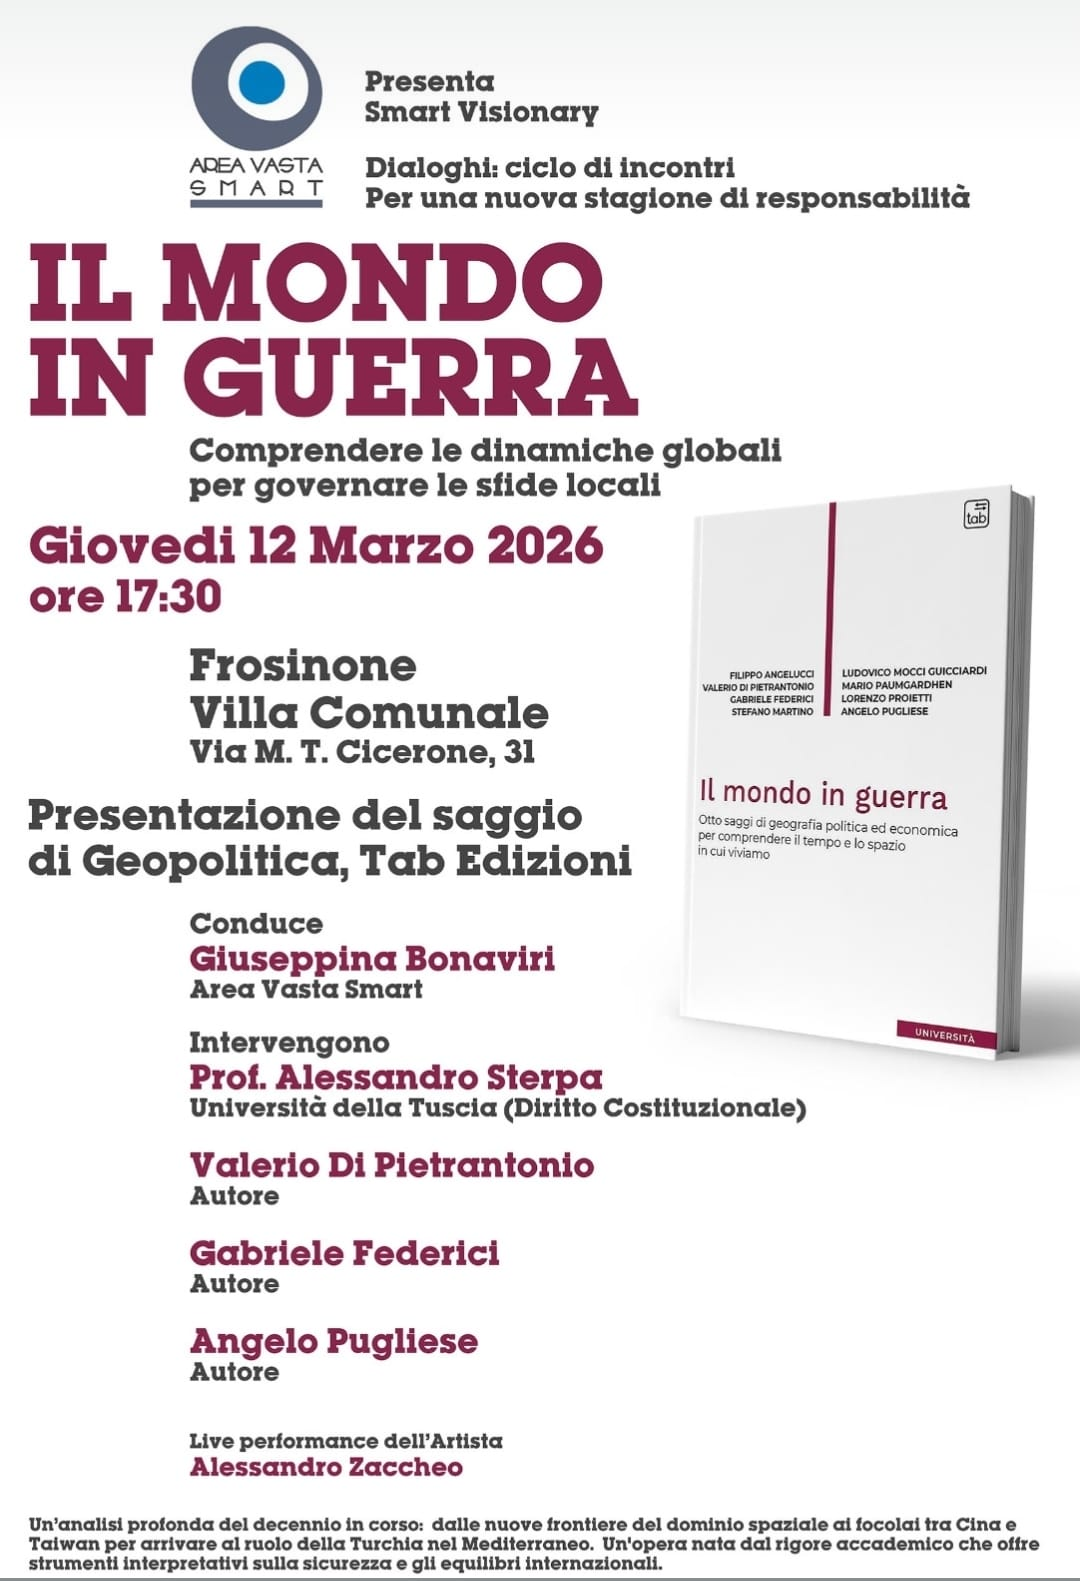
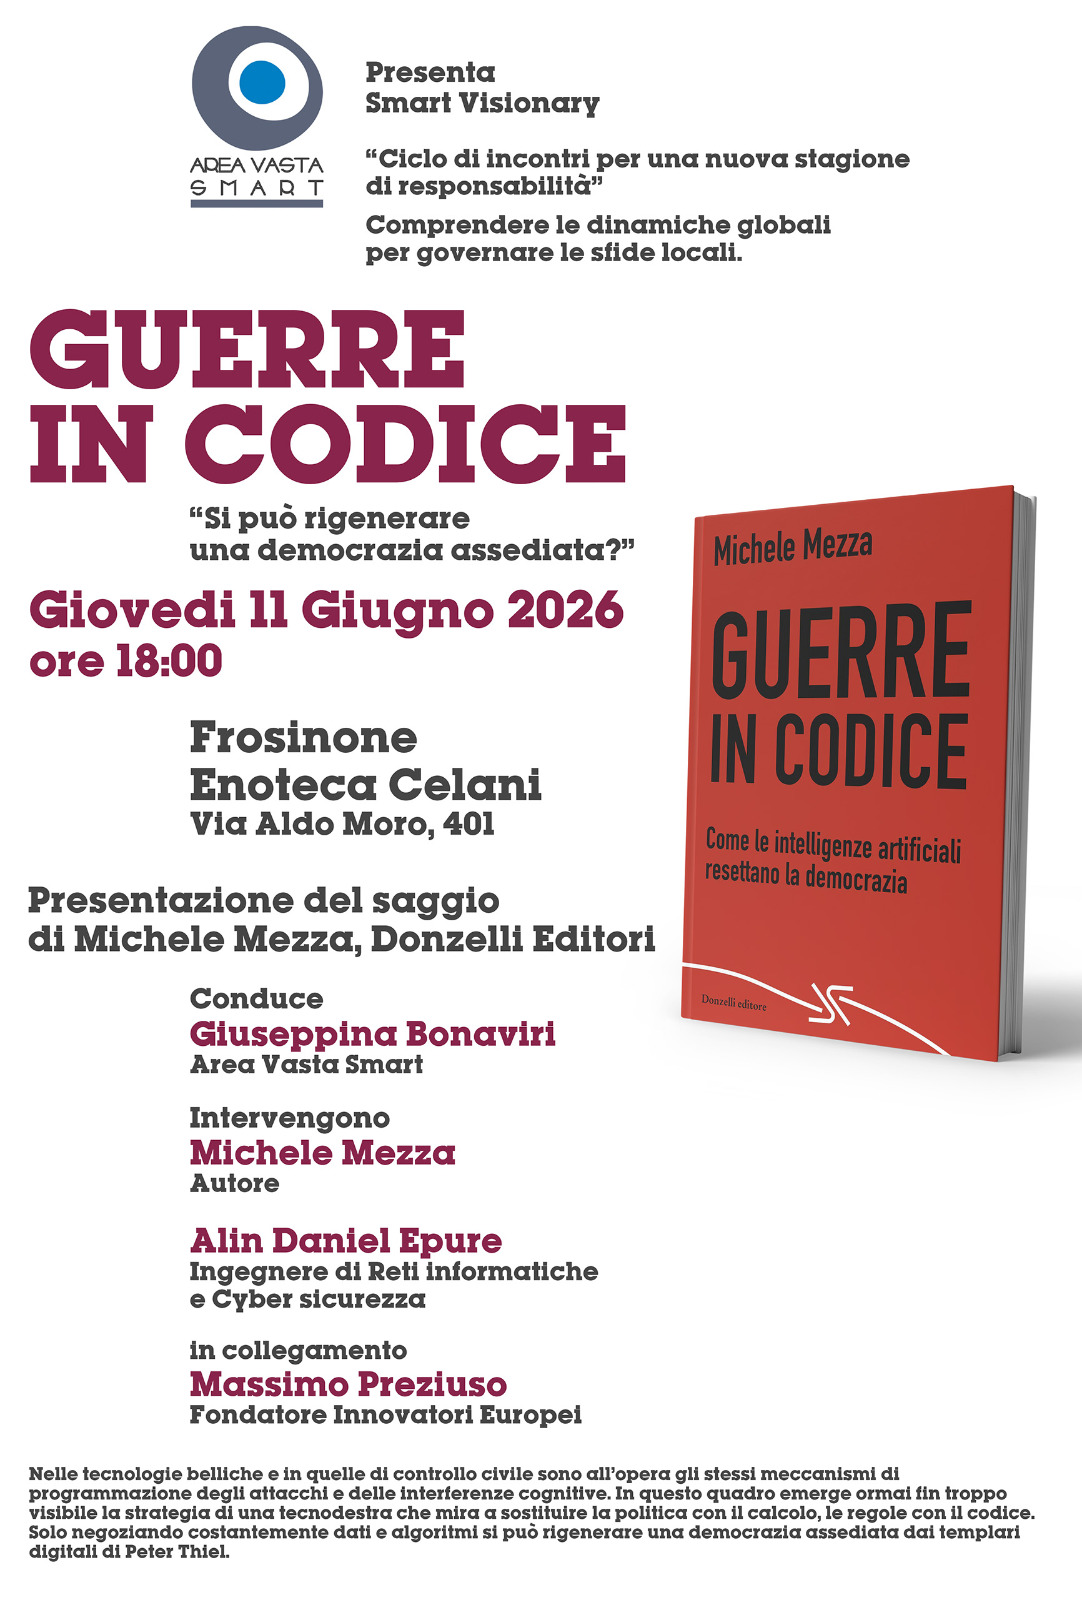
Replace gallery poster with Guerre in codice

diff --git a/index.html b/index.html
@@ -86,7 +86,7 @@
         <figure class="reveal"><img src="assets/gallery/foto37.jpeg" width="1830" height="1918" loading="lazy" decoding="async" alt="Veduta di un centro storico italiano con marchio Area Vasta Smart" /><figcaption>Il patrimonio dei luoghi</figcaption></figure>
         <figure class="reveal tall"><img src="assets/gallery/foto38.jpeg" width="1311" height="2048" loading="lazy" decoding="async" alt="Giuseppina Bonaviri in visita a un territorio montano" /><figcaption>Aree interne</figcaption></figure>
         <figure class="reveal tall"><img src="assets/gallery/foto39.jpeg" width="1080" height="1920" loading="lazy" decoding="async" alt="Giuseppina Bonaviri accanto al banner di Area Vasta Smart" /><figcaption>La rete AVS</figcaption></figure>
-        <figure class="reveal tall"><img src="assets/gallery/foto40.jpeg" width="1080" height="1581" loading="lazy" decoding="async" alt="Locandina del convegno Il mondo in guerra" /><figcaption>Confronto pubblico</figcaption></figure>
+        <figure class="reveal tall poster"><img src="assets/gallery/foto40.jpeg" width="1082" height="1600" loading="lazy" decoding="async" alt="Locandina dell’incontro Guerre in codice" /><figcaption>Confronto pubblico</figcaption></figure>
         <figure class="reveal wide"><img src="assets/gallery/foto41.jpeg" width="1024" height="465" loading="lazy" decoding="async" alt="Installazione con la scritta Area Vasta Smart" /><figcaption>Un modello riconoscibile</figcaption></figure>
         <figure class="reveal tall"><img src="assets/gallery/foto5.jpeg" width="931" height="1600" loading="lazy" decoding="async" alt="Giuseppina Bonaviri conversa durante un evento" /><figcaption>Persone e relazioni</figcaption></figure>
         <figure class="reveal tall"><img src="assets/gallery/foto7.jpeg" width="991" height="1321" loading="lazy" decoding="async" alt="Giuseppina Bonaviri con i partecipanti a un incontro" /><figcaption>Lavorare insieme</figcaption></figure>

diff --git a/styles.css b/styles.css
@@ -200,6 +200,9 @@ p, h1, h2, h3, blockquote { margin-top: 0; }
 .photo-grid figure.wide { grid-column: span 2; }
 .photo-grid img { width: 100%; height: 100%; object-fit: cover; transition: transform .4s ease; }
 .photo-grid figure:hover img { transform: scale(1.025); }
+.photo-grid figure.poster { background: #fff; }
+.photo-grid figure.poster img { object-fit: contain; }
+.photo-grid figure.poster:hover img { transform: none; }
 .photo-grid figcaption { position: absolute; inset: auto 10px 10px; padding: 8px 11px; border-radius: 999px; background: rgba(15,15,15,.76); color: #fff; backdrop-filter: blur(8px); font-size: 11px; }
 
 /* Editorial workflow */
